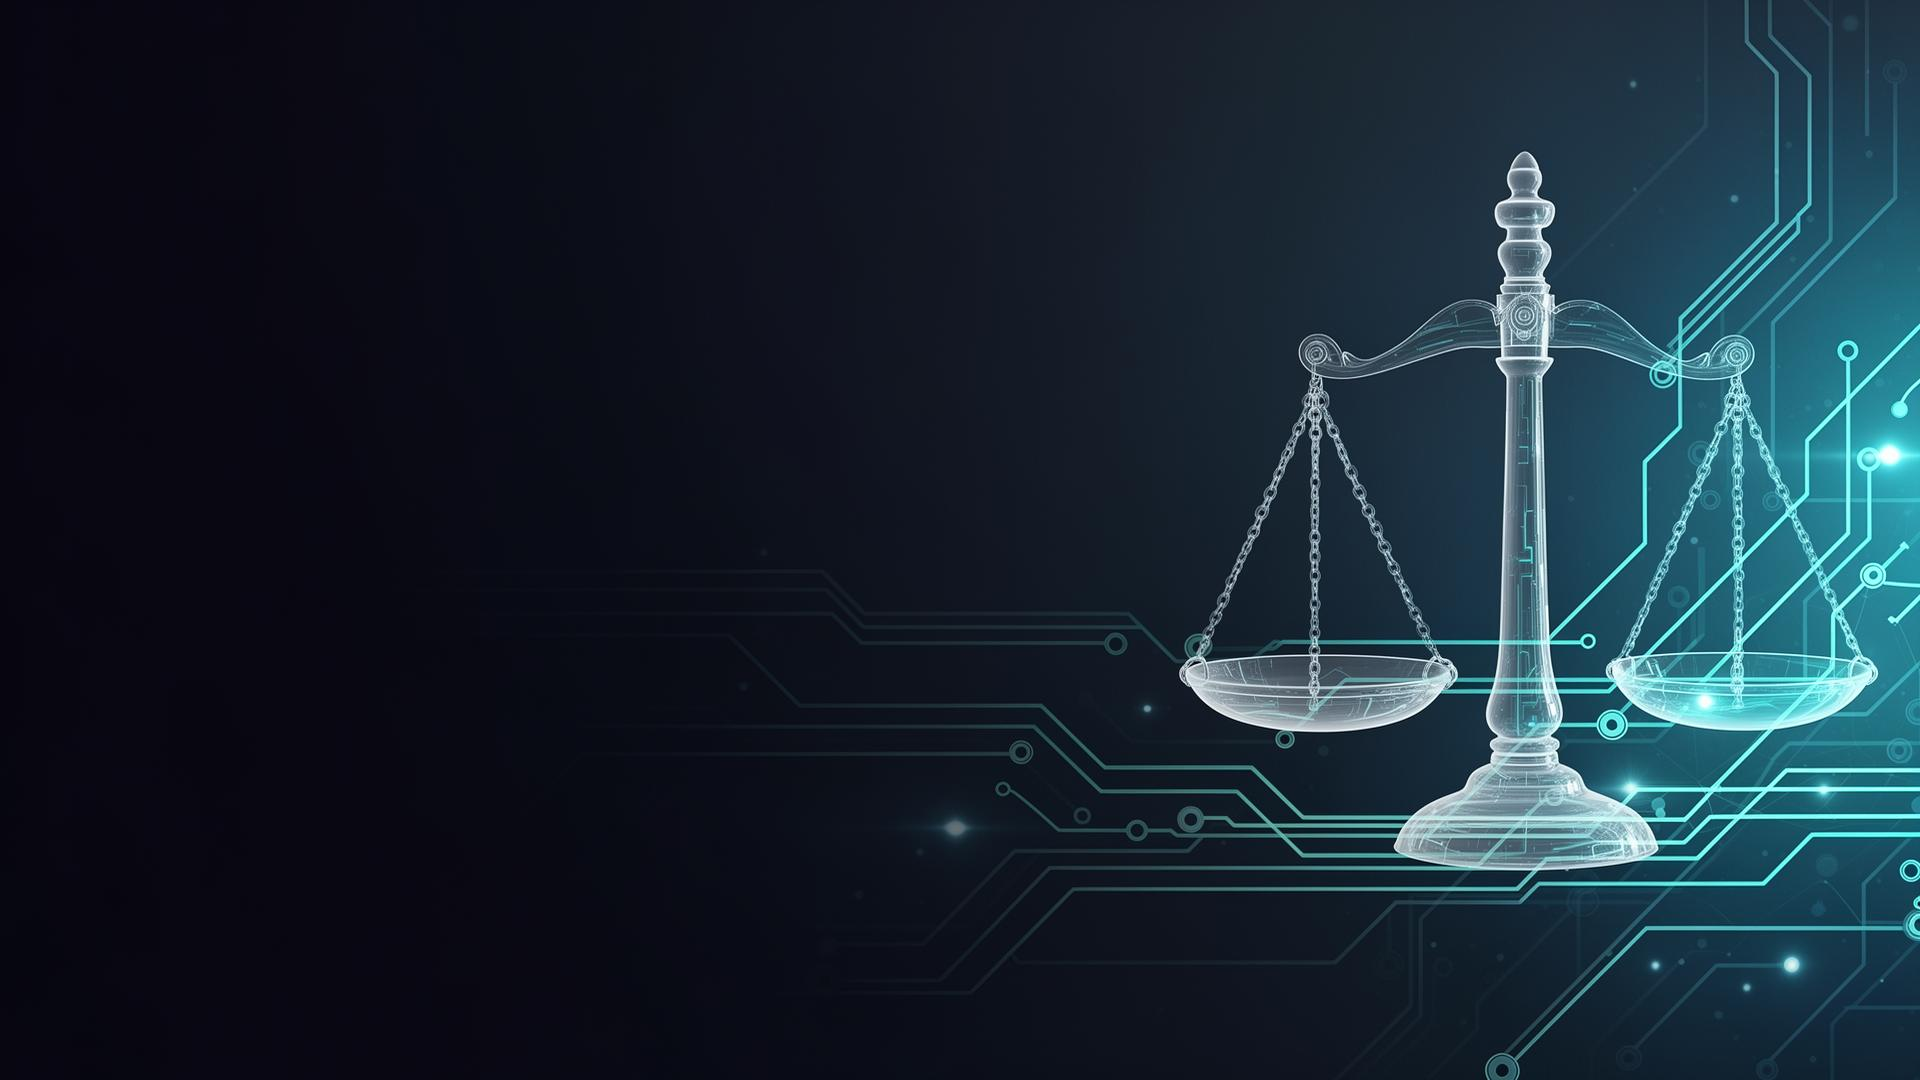
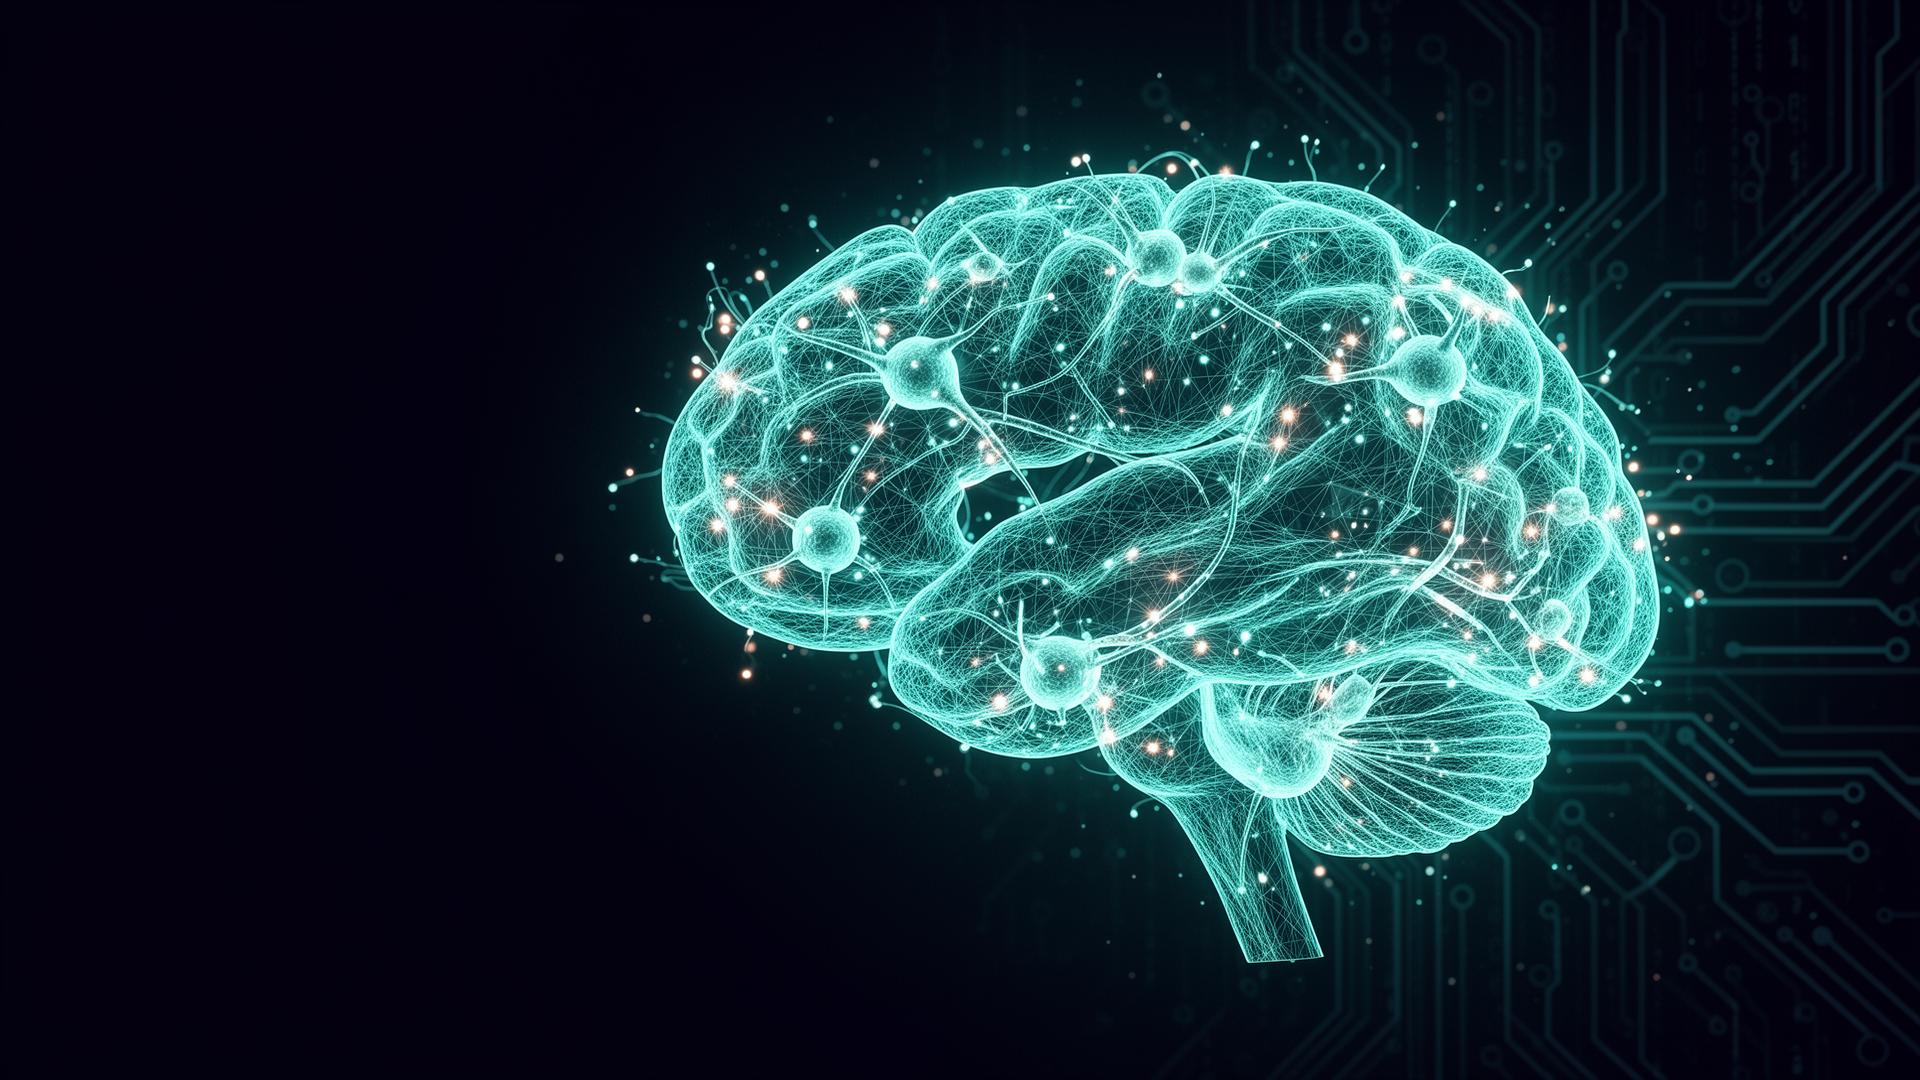
Changes

diff --git a/src/components/dashboard/WelcomeBanner.tsx b/src/components/dashboard/WelcomeBanner.tsx
@@ -35,16 +35,16 @@ const WelcomeBanner = ({ userName }: WelcomeBannerProps) => {
         loading="lazy"
       />
       <div className="absolute inset-0 bg-gradient-to-r from-background via-background/80 to-background/10" />
-      <div className="relative z-10 px-5 py-5 sm:px-8 sm:py-6">
-        <div className="inline-flex items-center gap-2 px-3 py-1 rounded-full border border-primary/40 bg-primary/10 text-xs font-semibold text-primary mb-3">
+      <div className="relative z-10 px-4 py-4 sm:px-7 sm:py-5">
+        <div className="inline-flex items-center gap-2 px-3 py-1 rounded-full border border-primary/40 bg-primary/10 text-xs font-semibold text-primary mb-2">
           <span className="h-1.5 w-1.5 rounded-full bg-accent" />
           AI-Native · Study.AI
         </div>
-        <h1 className="font-display font-bold uppercase tracking-tight text-xl sm:text-3xl text-foreground leading-tight">
+        <h1 className="font-display font-bold uppercase tracking-tight text-lg sm:text-2xl text-foreground leading-tight">
           {greeting},{" "}
           <span className="text-primary">{userName.toUpperCase()}</span>
         </h1>
-        <p className="mt-2 text-sm sm:text-base text-muted-foreground">{dateStr}</p>
+        <p className="mt-1.5 text-xs sm:text-sm text-muted-foreground">{dateStr}</p>
       </div>
     </section>
   );

diff --git a/.lovable/plan.md b/.lovable/plan.md
@@ -1,46 +1,29 @@
 ## Objetivo
-Adicionar um menu "Apps" no canto superior direito do Dashboard, exibindo o ecossistema Advocacy.AI com todos os produtos. O produto atual (Study.AI) aparece destacado e marcado como ativo; os demais abrem em nova aba.
+Reduzir levemente o container de boas-vindas (`WelcomeBanner`) e trocar a imagem de fundo (atualmente "balança da justiça") por uma com identidade de **neurociência + IA**, mantendo a paleta Study.AI (ciano/teal sobre fundo escuro).
 
-## Onde aparece
-- Posicionado dentro do header superior do `DashboardLayout` (mesma linha onde hoje fica a quote motivacional), alinhado à direita.
-  - Layout: `flex items-center justify-between` — quote à esquerda, botão "Apps" à direita.
-- Visível em todas as abas do Dashboard.
+## Alterações
 
-## Componentes
+### 1. Nova imagem de fundo — `src/assets/dashboard-hero-bg.jpg` (substituir)
+Gerar via `imagegen--generate_image` (modelo `standard`, 1920x640, sem transparência) com prompt focado em:
+- Cérebro humano estilizado em wireframe/holográfico ciano-teal
+- Circuitos neurais, sinapses brilhantes, nós de rede neural
+- Partículas de dados, linhas de circuito sutis ao fundo
+- Fundo escuro (azul-marinho/preto) compatível com `bg-background`
+- Estética futurista, AI-native, tom científico (não cartoon)
+- Lado esquerdo mais escuro/limpo para o gradiente do texto respirar
 
-### Novo: `src/components/dashboard/AppsLauncher.tsx`
-- Botão trigger usando `DropdownMenu` (shadcn) com ícone `LayoutGrid` (lucide) + label "Apps".
-- Conteúdo do dropdown (largura ~320px, `rounded-xl`, paleta Study.AI com tokens semânticos):
-  - Cabeçalho pequeno: "ECOSSISTEMA" (uppercase, tracking, muted) e "Advocacy.AI" (com ".AI" em cor de destaque `text-primary`).
-  - Lista de apps. Cada item:
-    - Ícone à esquerda (lucide), nome do produto com sufixo ".AI" colorido em `text-primary`.
-    - Subtítulo curto descritivo (muted).
-    - Item ativo (Study.AI): borda `border-primary/40`, fundo `bg-primary/10`, com `Check` à direita.
-    - Demais itens: link `<a target="_blank" rel="noopener noreferrer">` com ícone `ExternalLink` ao lado do nome.
+### 2. Reduzir o container — `src/components/dashboard/WelcomeBanner.tsx`
+Apenas ajustes de espaçamento/tamanho (sem mexer em estrutura, gradiente ou cores):
+- Padding: `px-5 py-5 sm:px-8 sm:py-6` → `px-4 py-4 sm:px-7 sm:py-5`
+- Greeting `h1`: `text-xl sm:text-3xl` → `text-lg sm:text-2xl`
+- Chip "AI-Native · Study.AI": `mb-3` → `mb-2`
+- Data: `mt-2 text-sm sm:text-base` → `mt-1.5 text-xs sm:text-sm`
 
-### Lista de apps (constante no componente)
-- Inventaria.AI — `https://inventariaai.lovable.app` — "Planejamento patrimonial e sucessório" — ícone `Scale`
-- Peticiona.AI — `https://peticionaai-byadvocacyai.lovable.app` — "Petições, minutas e contratos" — ícone `FileText`
-- Advoga.AI — `https://advogaai-byadvocacy.lovable.app` — "Gestão de processos e escritório" — ícone `Briefcase`
-- Prospect.AI — `https://prospectai-byadvocacyai.lovable.app` — "Prospecção e inteligência de clientes" — ícone `Search`
-- Fin.AI — `https://finai-byadvocacyia.lovable.app` — "Gestão financeira do escritório" — ícone `Wallet`
-- Study.AI — `https://studyai-plataforma.lovable.app` — "Pesquisa jurídica e estudos" — ícone `GraduationCap` — **ATIVO**
-
-Observação: a URL de Inventaria.AI fornecida começa com "ttps://"; será corrigida para `https://inventariaai.lovable.app`.
-
-### Integração: `src/components/dashboard/DashboardLayout.tsx`
-- Trocar a barra superior de `flex items-center justify-end` para `flex items-center justify-between`.
-- Manter a quote à esquerda; renderizar `<AppsLauncher />` à direita.
-- No mobile (< sm): mostrar apenas o ícone do botão (label "Apps" oculto via `hidden sm:inline`).
-
-## Estilo
-- Tokens semânticos do design system (sem cores hard-coded). Bordas `rounded-xl`, ícones em quadrados arredondados com `bg-muted/40`.
-- Item ativo destacado em ciano (`text-primary`, `bg-primary/10`, `border border-primary/30`).
+Mantém: imagem importada, `opacity-70`, gradiente, nome em uppercase com `text-primary`, borda `rounded-xl`.
 
 ## Fora de escopo
-- Sem mudanças em sidebar, RLS, schema, edge functions, autenticação ou outras páginas (landing/auth/onboarding).
-- Sem SSO entre apps — cada link apenas abre em nova aba.
+- Sem mudanças em layout do header, AppsLauncher, sidebar, dados ou backend.
 
 ## Arquivos impactados
-- `src/components/dashboard/AppsLauncher.tsx` (novo)
-- `src/components/dashboard/DashboardLayout.tsx` (header recebe o launcher à direita)
+- `src/assets/dashboard-hero-bg.jpg` (regenerada)
+- `src/components/dashboard/WelcomeBanner.tsx` (ajuste fino de tamanho)
